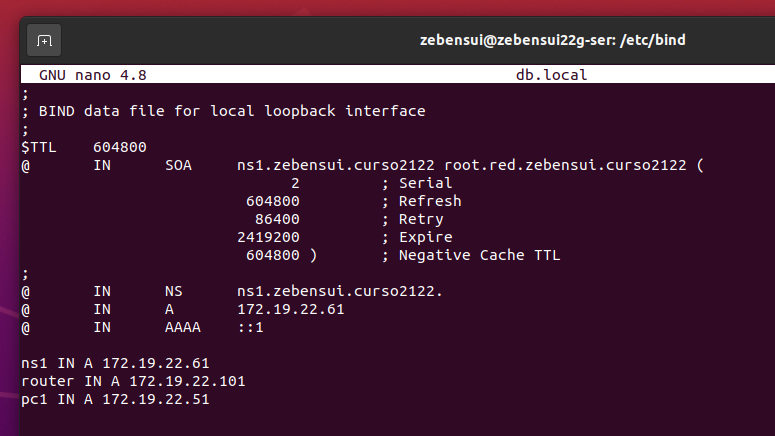
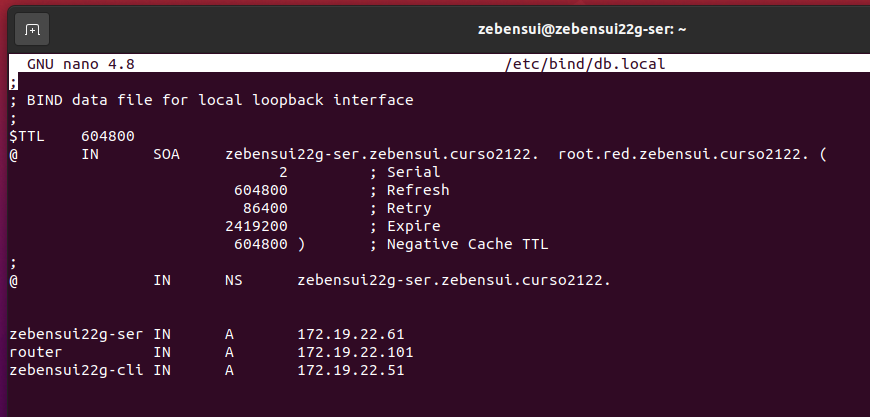
Informe DNS-Linux

diff --git a/DNS/DNS-Linux/README.md b/DNS/DNS-Linux/README.md
@@ -1,0 +1,75 @@
+# Informe DNS Linux - Zebensui Lorenzo Esquivel
+
+  En esta ocasión lo que vamos a hacer es configurar el servicio DNS en máquinas Linux, Ubuntu 20 en mi caso.
+
+  1. Nos instalamos el servicio bind9.
+
+  ![](img/1.png)
+
+  ![](img/2.png)
+
+  2. Aquí hay que prestar atención porque si no funciona te vas a meter horas buscando el porque. Lo que tenemos que hacer es decirle a nuestra máquina que nuestro DNS a partir de ahora es la propia máquina que va a actuar de servidor, para ello tenemos que modificar el archivo /etc/resolv.conf añadiéndole nuestra IP el problema es que ese archivo es un enlace que va a restaurarse cada vez que reiniciemos el servicio, por lo que tenemos que ir al archivo real y modificarlo desde ahí, esto hará que no se cambie cuando reiniciemos el servicio pero si la máquina (cosa que no debería pasar)
+
+  ![](img/3.png)
+
+  ![](img/4.png)
+
+**IMPORTANTE** El archivo /etc/hosts tiene que tener nuestra IP y nombre porque si no nada de lo que seguiremos haciendo funcionara correctamente y nos dará todo el rato este error:
+
+  ![](img/25.png)
+
+Así que tenemos que tener el /etc/hosts de la sigueinte forma:
+
+  ![](img/24.png)
+
+  Aparte también tenemos que especificarle al adaptador de red el DNS
+
+  ![](img/8.png)
+
+  3. Vamos a configurar los reenviadores, para ello creamos primero una copia del archivo original y luego los añadimos
+
+  ![](img/5.png)
+
+  ![](img/6.png)
+
+  4. Comprobamos que funcionan desde el servidor y desde el cliente
+
+  ![](img/7.png)
+
+  ![](img/10.png)
+
+  5. Vamos a crear el archivo que contiene la información de las zonas de búsqueda directa e inversa. Antes que nada hacemos la copia de seguridad y luego modificamos especificando el nombre de las zonas, el tipo y la ruta donde se encuentran los ficheros de configuración que modificaremos luego
+
+![](img/11.png)
+
+![](img/12.png)
+
+6. Ahora creamos los ficheros de configuración de ambas zonas, teniendo mucho cuidado de la sintaxis ya que el comando que nos la verifica nos puede decir que esta bien cuando realmente no lo esta porque se nos colo una coma en vez de un punto, por ejemplo, así que mucho ojo y cuidado
+
+![](img/13.png)
+
+![](img/14.png)
+
+![](img/15.png)
+
+![](img/16.png)
+
+7. Lo único que nos queda es comprobar la resolución de nombres de ambas zonas tanto en el servidor como en el cliente
+
+## Servidor
+
+![](img/18.png)
+
+![](img/19.png)
+
+![](img/20.png)
+
+## Cliente
+
+Aquí solo tenemos que añadir el DNS al adaptador de red y listo.
+
+![](img/21.png)
+
+![](img/22.png)
+
+![](img/23.png)
